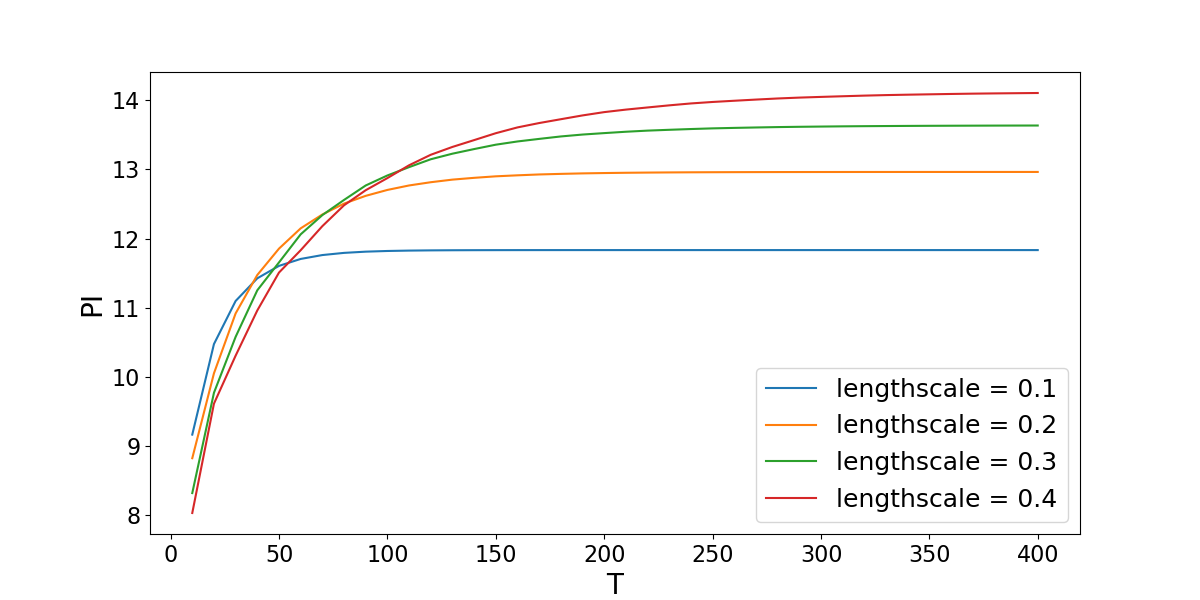
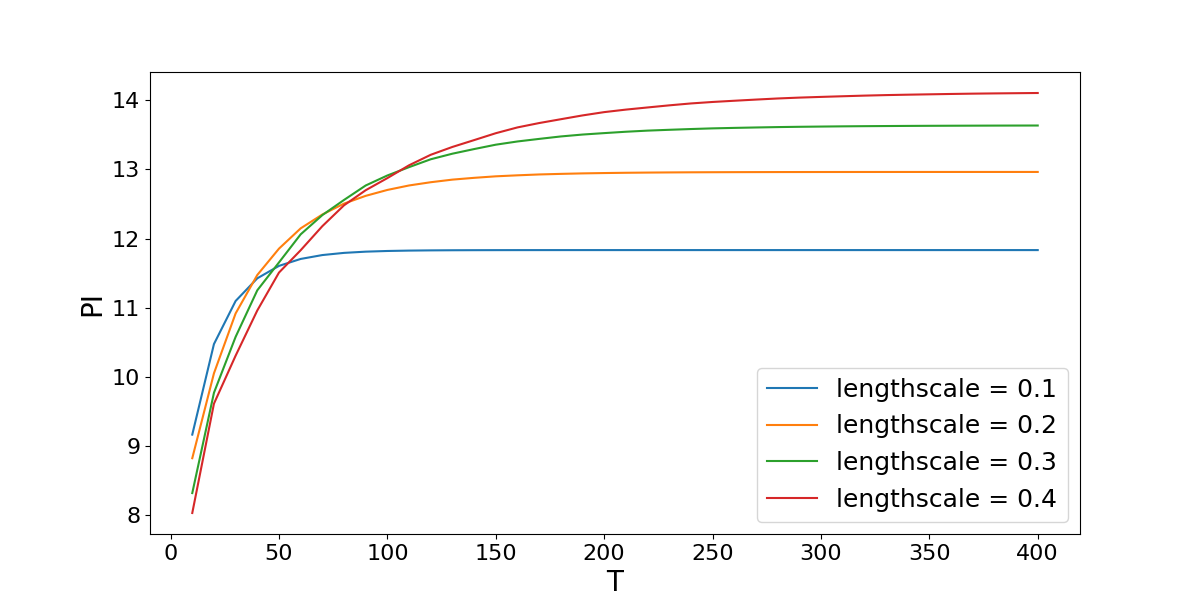
drift-diffusion model generator

diff --git a/data_generation/drift_diffusion_generator.py b/data_generation/drift_diffusion_generator.py
@@ -1,0 +1,84 @@
+import numpy as np
+import matplotlib.pyplot as plt
+import matplotlib.animation as animation
+
+
+def generate_drift_diffusion(
+        T=1000, # number of timesteps
+        N=20, # number of blobs
+        drift_rate=0.08, # how fast/far group drifts
+        rotation_speed=0.05, # angular speed of drift direction
+        cohesion_strength=0.1, # how strongly individuals follow the group
+        dt=1.0, # displacement at time t
+        diffusion_std=0.3, # individual noise
+        seed=42
+    ):
+
+    np.random.seed(seed)
+
+    positions = np.zeros((T, N, 2))
+    positions[0] = np.random.normal(0, 0.1, (N, 2))  # start near origin
+
+    for t in range(1, T):
+        centroid = positions[t-1].mean(axis=0)
+        
+        drift_vector = drift_rate * np.array([np.cos(rotation_speed*t), np.sin(rotation_speed*t)])
+        cohesion_term = cohesion_strength * np.sin(centroid - positions[t-1])
+        random_diffusion = np.random.normal(0, diffusion_std, (N, 2))
+
+        positions[t] = positions[t-1] + (drift_vector + cohesion_term) * dt + random_diffusion
+
+    return positions
+
+
+def animate_drift_diffusion(
+        T=1000,
+        N=20,
+        drift_rate=0.08,
+        rotation_speed=0.05,
+        cohesion_strength=0.1,
+        dt=1.0,
+        diffusion_std=0.3,
+        x_max=4,
+        y_max=6
+    ):
+
+    positions = generate_drift_diffusion(T,
+                                         N,
+                                         drift_rate,
+                                         rotation_speed,
+                                         cohesion_strength,
+                                         dt,
+                                         diffusion_std,
+                                        )
+
+    fig, ax = plt.subplots()
+    scat = ax.scatter([], [], s=80, color='orange', alpha=0.8)
+    ax.set_xlim(-x_max, x_max)
+    ax.set_ylim(-y_max, y_max)
+
+    def init():
+        scat.set_offsets(np.empty((0, 2)))
+        return scat,
+
+    def update(frame):
+        scat.set_offsets(positions[frame])
+        ax.set_title(f"t = {frame}")
+        return scat,
+
+    return animation.FuncAnimation(fig, update, frames=T, init_func=init, interval=50, blit=True)
+
+
+if __name__ == "__main__":
+    ani = animate_drift_diffusion(T=1000,
+                                  N=20,
+                                  drift_rate=0.2,
+                                  rotation_speed=0.05,
+                                  cohesion_strength=0.1,
+                                  dt=1.0,
+                                  diffusion_std=0.3,
+                                  x_max=4,
+                                  y_max=6
+                                )
+    # ani.save("drift_diffusion.gif", fps=30, writer='pillow')
+    plt.show()

diff --git a/synthetic/data_generator.py b/synthetic/data_generator.py
@@ -122,7 +122,7 @@ def visualization(para_list, ts):
         plt.show()
 
 
-def plot_PI(T_list, PIs, lengthscales, save_file="figs/PI_vs_T.png"):
+def plot_PI(T_list, PIs, lengthscales, save_file="fig/PI_vs_T/PI_vs_T.png"):
     Ts = np.array(T_list)
     fig = plt.figure()
     for i, lengthscale in enumerate(lengthscales):
@@ -152,12 +152,12 @@ if __name__ == "__main__":
     para_list = [(1, 0.1), (1, 0.2), (1, 0.3), (1, 0.4)]
     lengthscales = np.array([para[1] for para in para_list])
 
-    if not os.path.exists("syn_gp_ts.pickle"):
+    if not os.path.exists("data/syn_gp_ts.pickle"):
         X, ts, Sigmas = data_generator(para_list, T=1000, num_sample=100, type="gp", xlim=(0, 10))
-        with open("syn_gp_ts.pickle", "wb") as file:
+        with open("data/syn_gp_ts.pickle", "wb") as file:
             pickle.dump((X, ts, Sigmas), file)
     else:
-        with open("syn_gp_ts.pickle", "rb") as file:
+        with open("data/syn_gp_ts.pickle", "rb") as file:
             X, ts, Sigmas = pickle.load(file)
 
     T_list = [10 * (i + 1) for i in range(40)]
@@ -165,6 +165,3 @@ if __name__ == "__main__":
     PIs = Compute_true_PI(Sigmas, T_list)
     print(PIs)
     plot_PI(T_list, PIs, lengthscales)
-
-
-    import pdb; pdb.set_trace()

diff --git a/src/cpic/CPIC.py b/src/cpic/CPIC.py
@@ -1,4 +1,3 @@
-
 import torch
 from torch import nn
 import numpy as np
